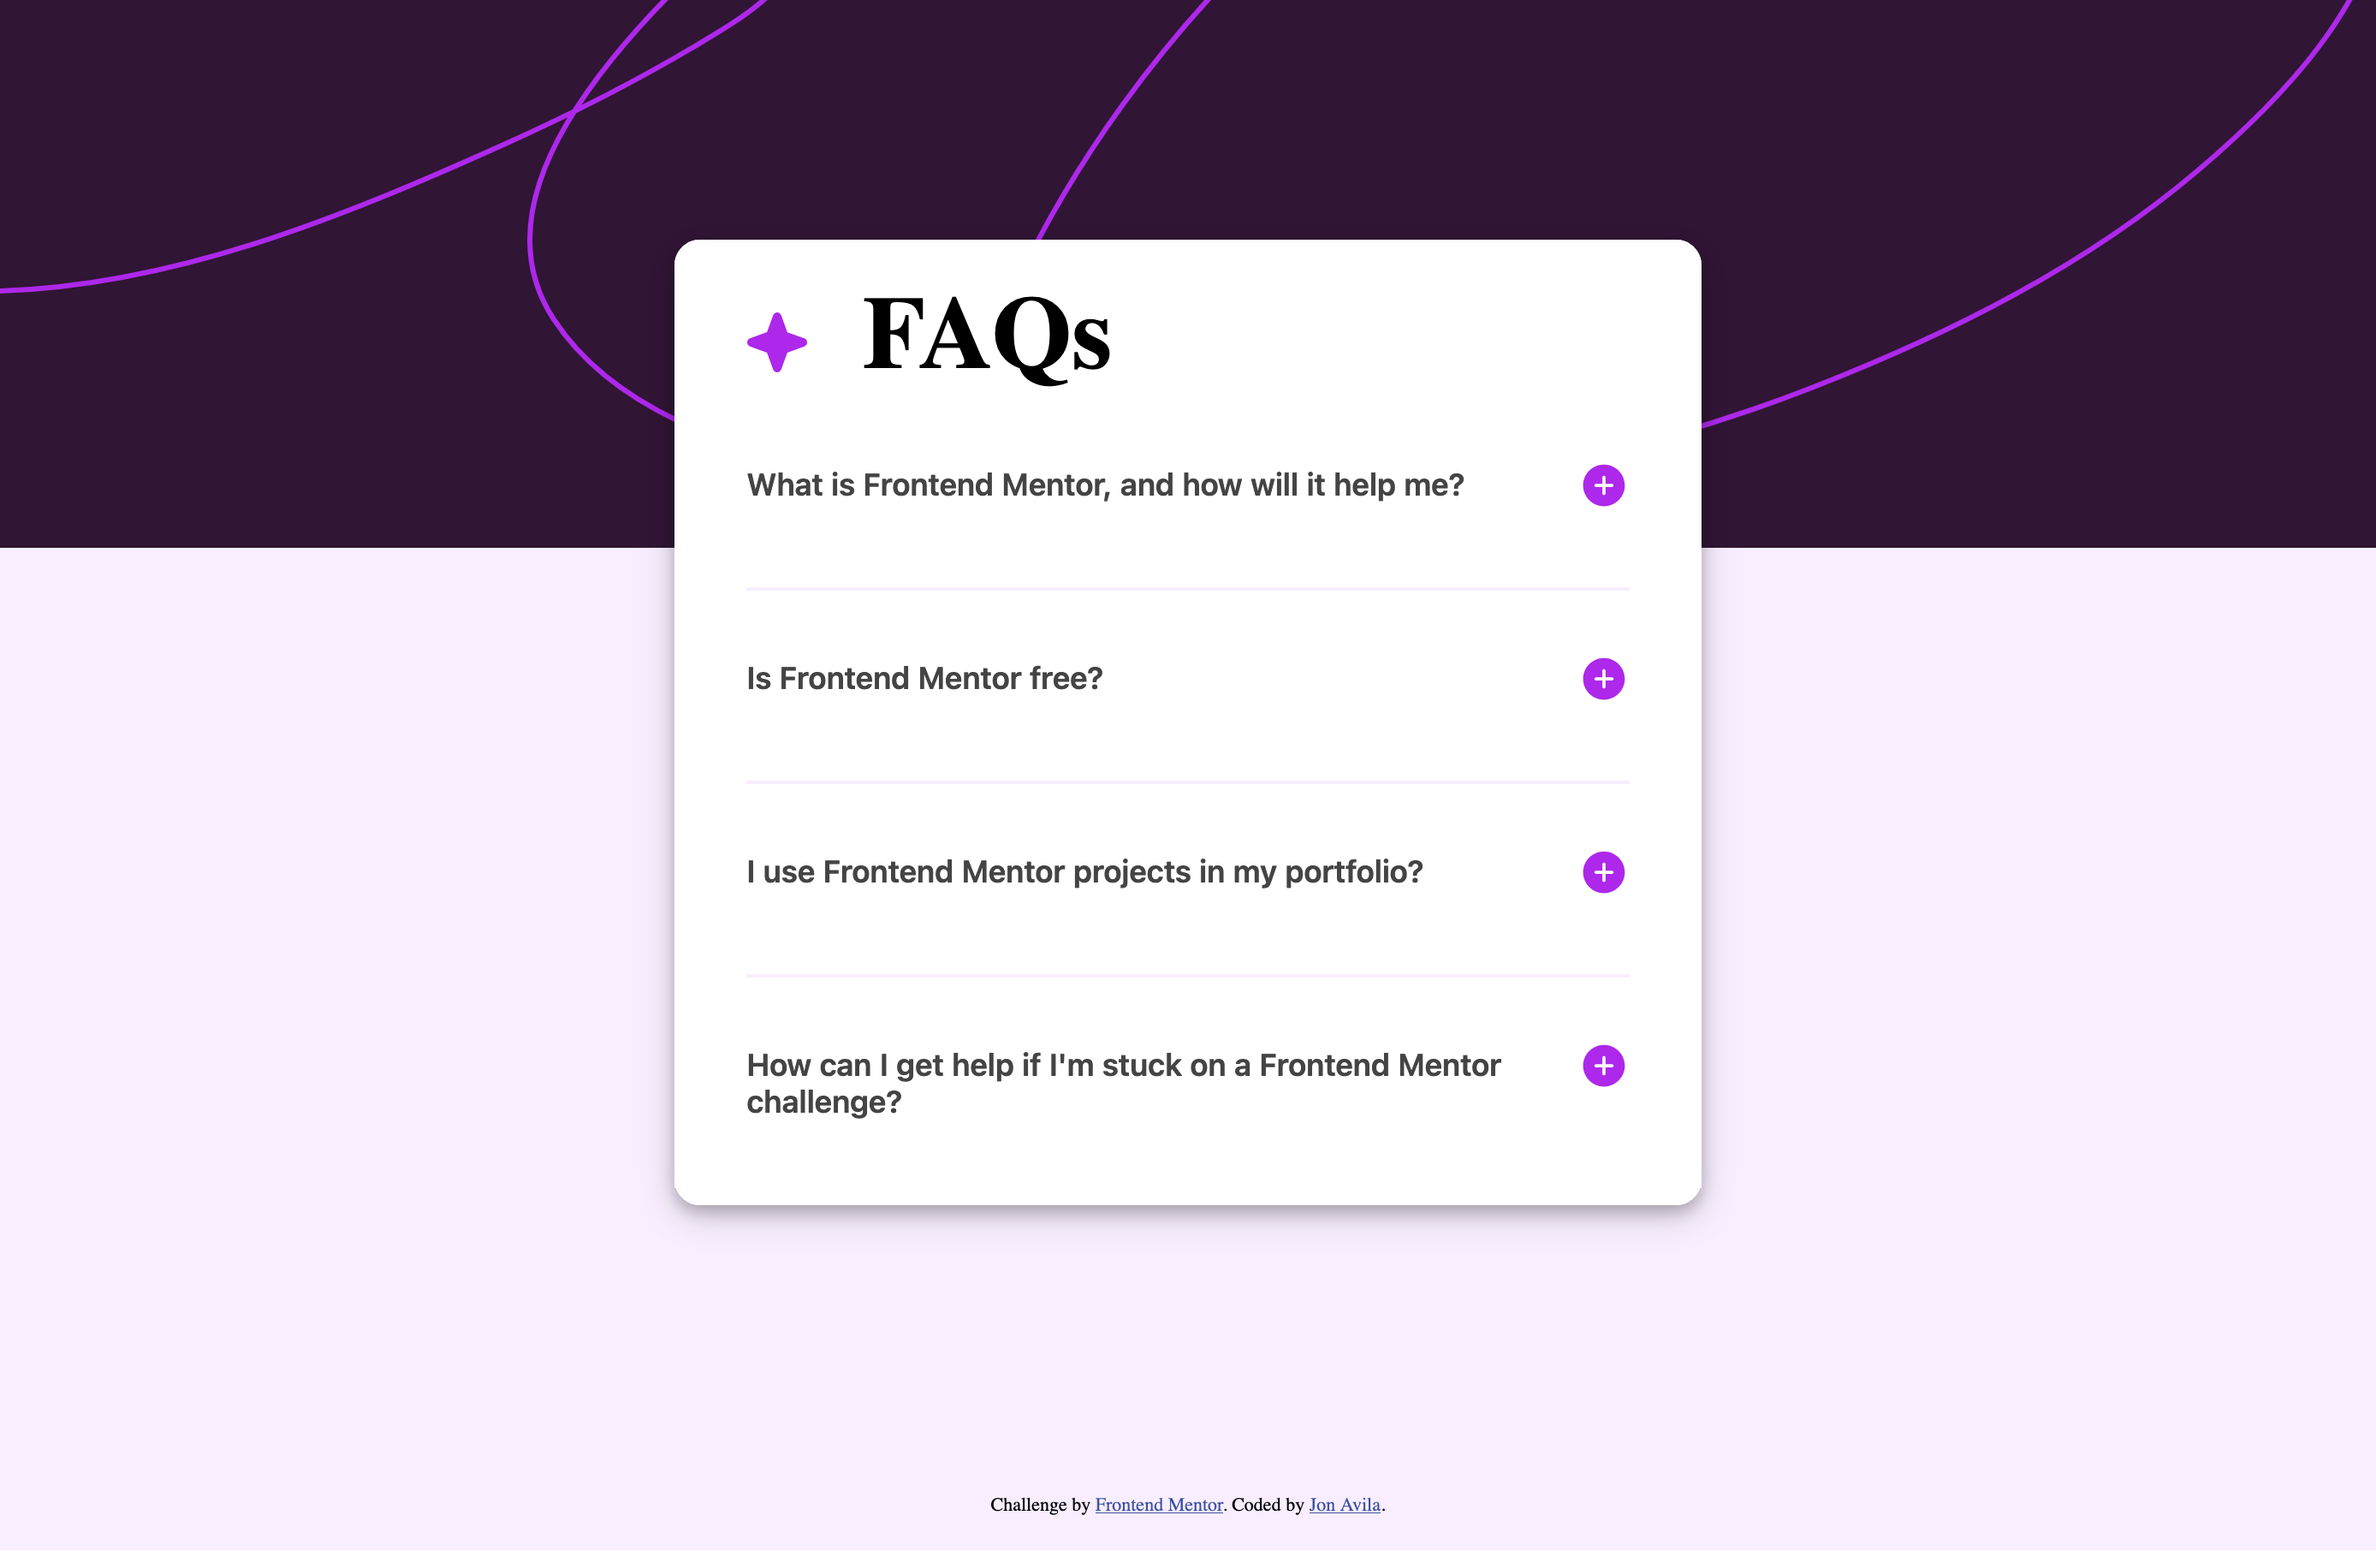
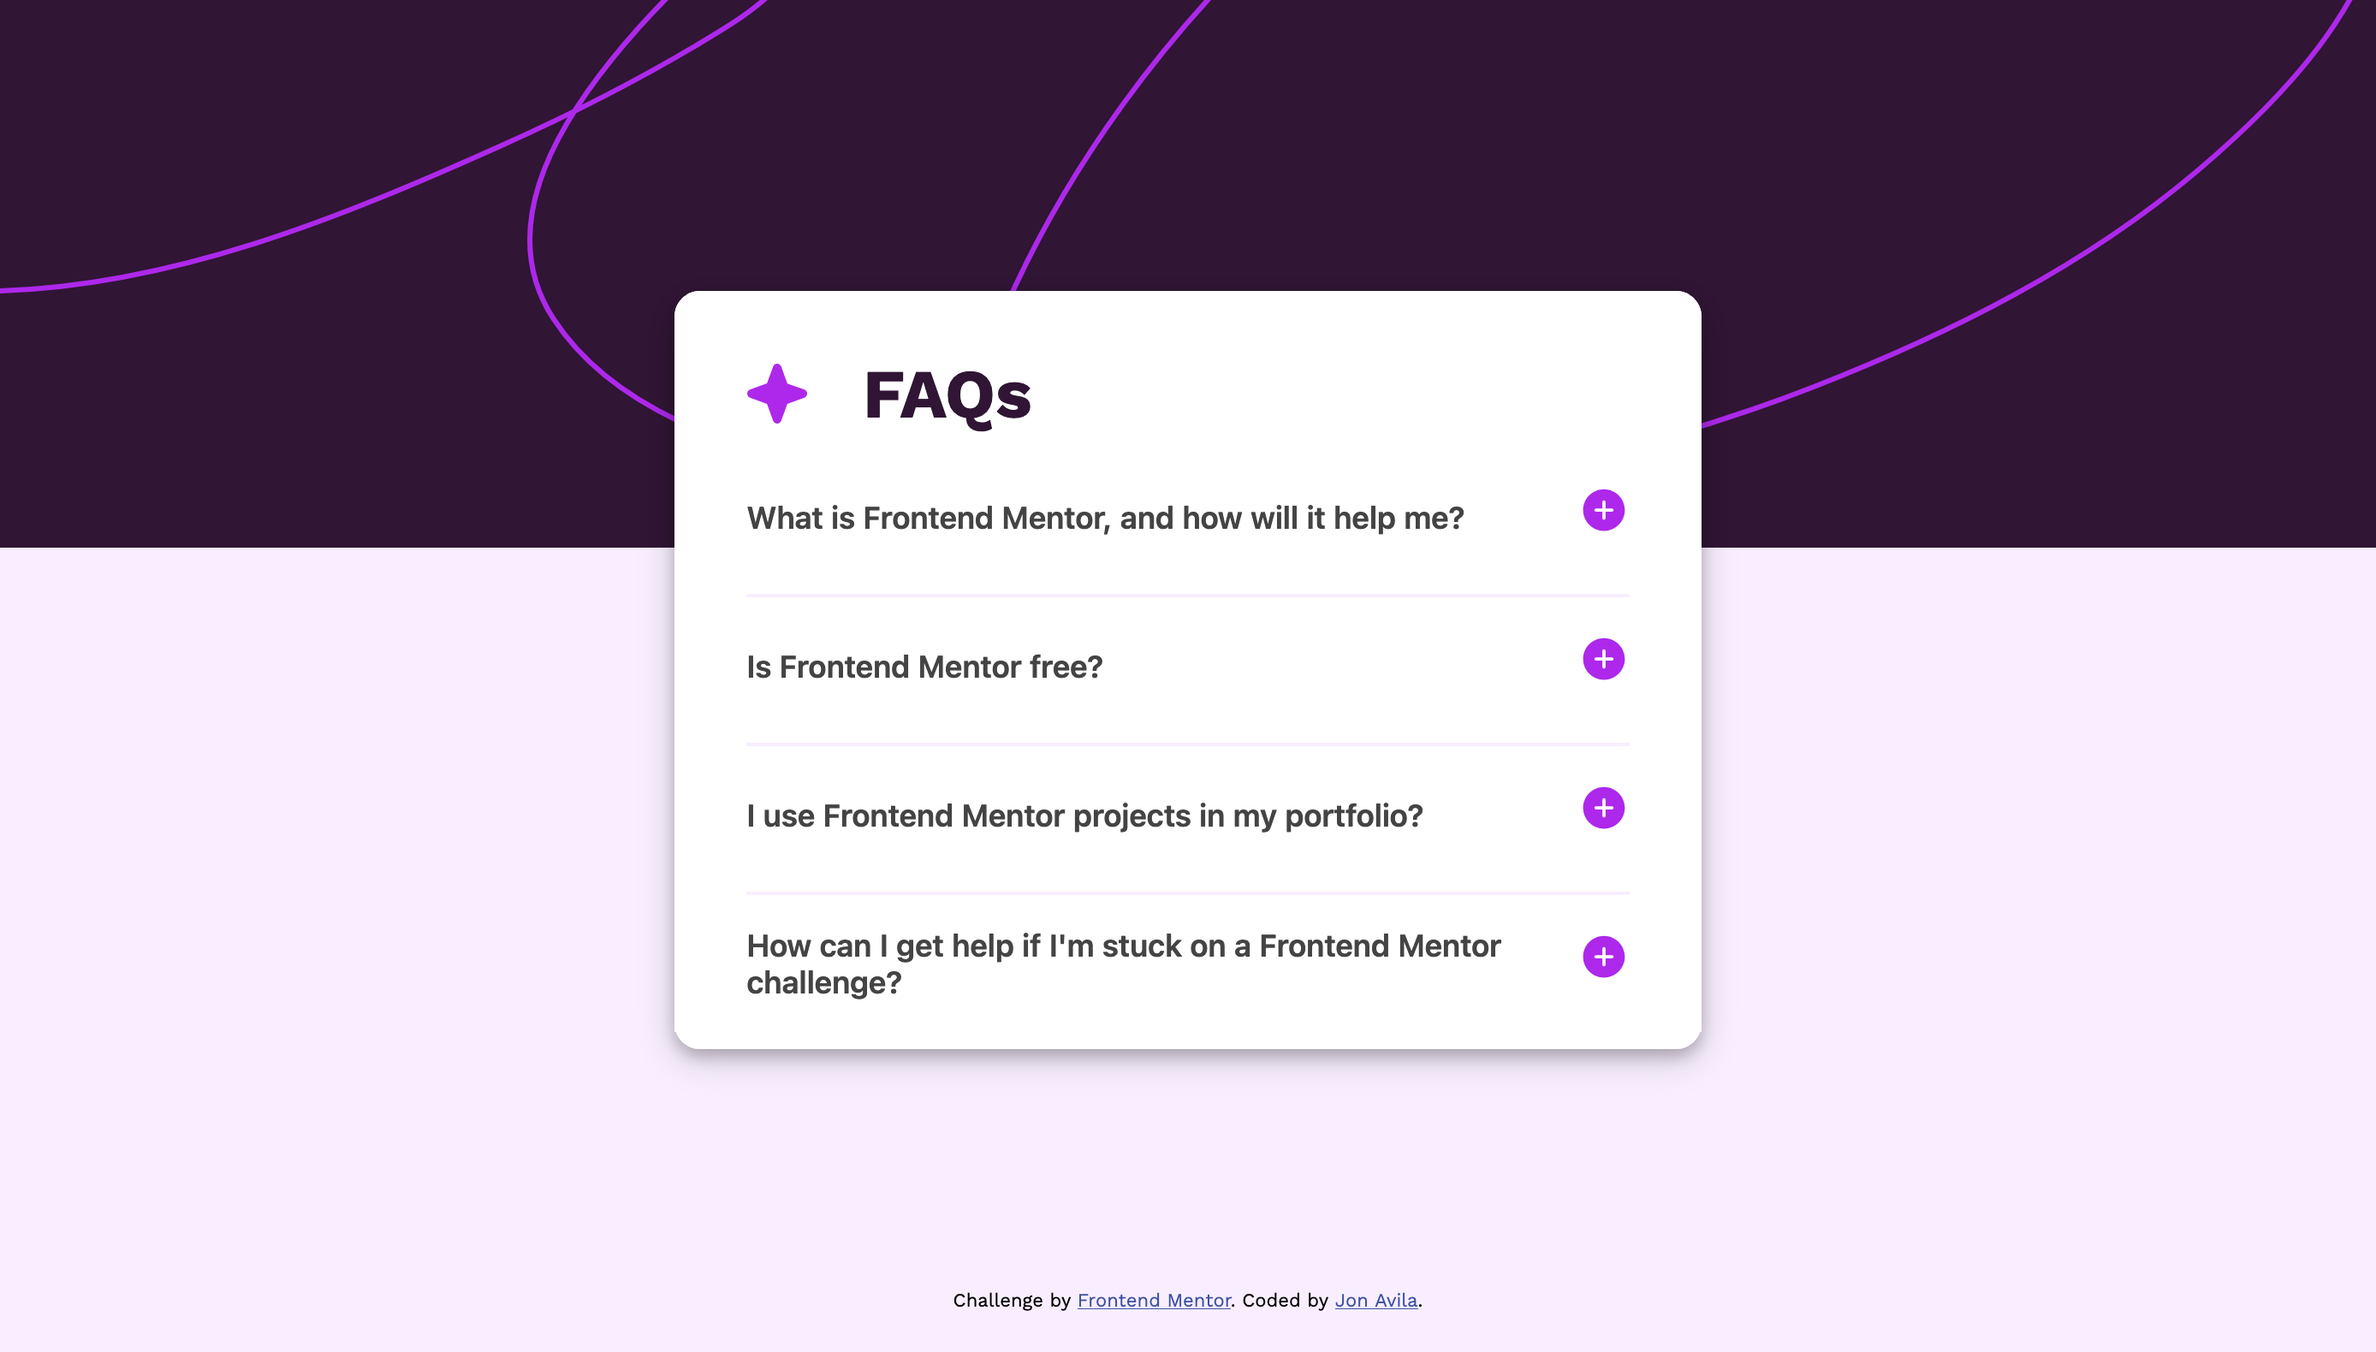
fixed readme

diff --git a/style.css b/style.css
@@ -73,7 +73,7 @@ header {
   padding-left: 40px;
   padding-bottom: 32px;
   font-size: 20px;
-  font-weight: bold;
+  font-weight: 900;
   border-radius: 15px 15px 0 0;
 }
 

diff --git a/README.md b/README.md
@@ -27,12 +27,12 @@ Users should be able to:
 
 ### Links
 
-- Live Site URL: [https://madroosterlab.github.io/FEM-FaqAccordion/](hhttps://madroosterlab.github.io/FEM-FaqAccordion/)
+- Live Site URL: [https://madroosterlab.github.io/FEM-FaqAccordion/](https://madroosterlab.github.io/FEM-FaqAccordion/)
 
 ## Author
 
 Jon Avila
 
-- Frontend Mentor - [@yourusername](https://www.frontendmentor.io/profile/madroosterlab)
+- Frontend Mentor - [@madroosterlab](https://www.frontendmentor.io/profile/madroosterlab)
 
 **Note: Delete this note and add/remove/edit lines above based on what links you'd like to share.**
